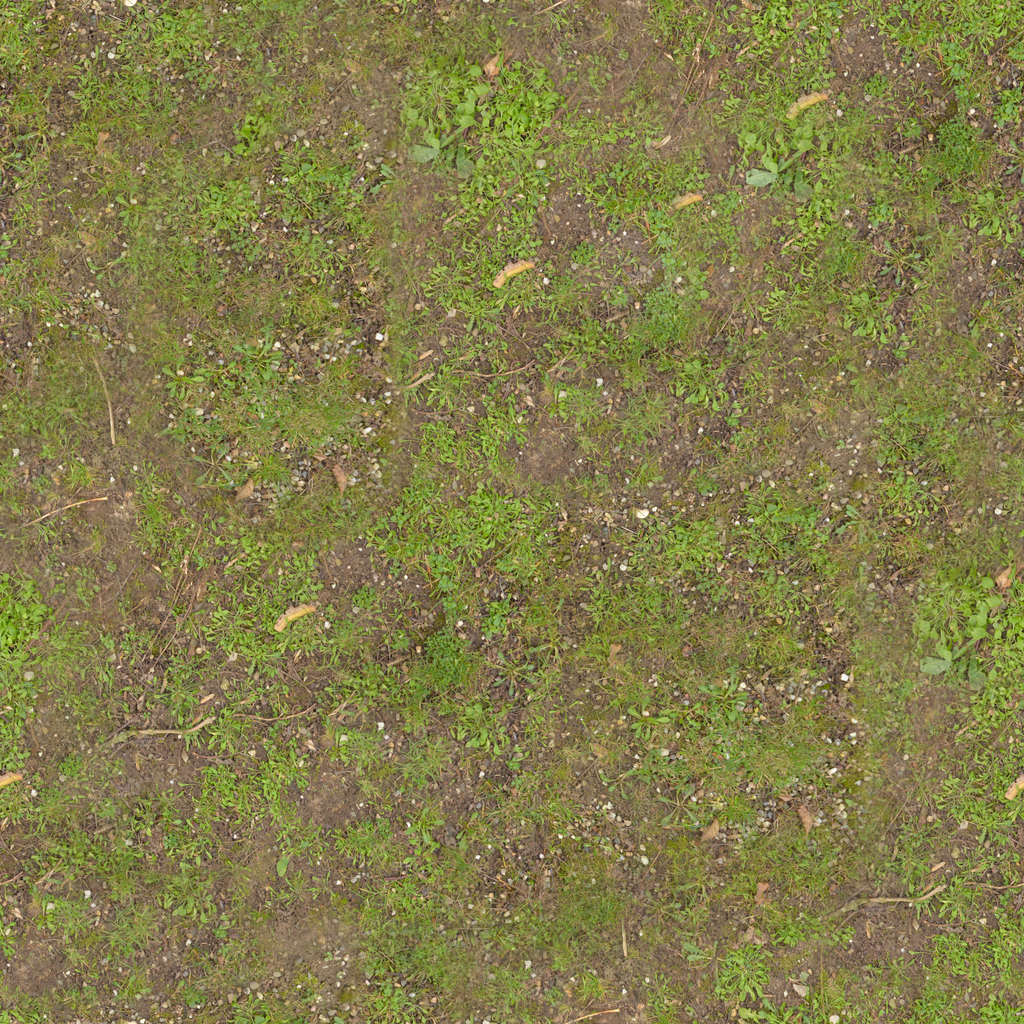
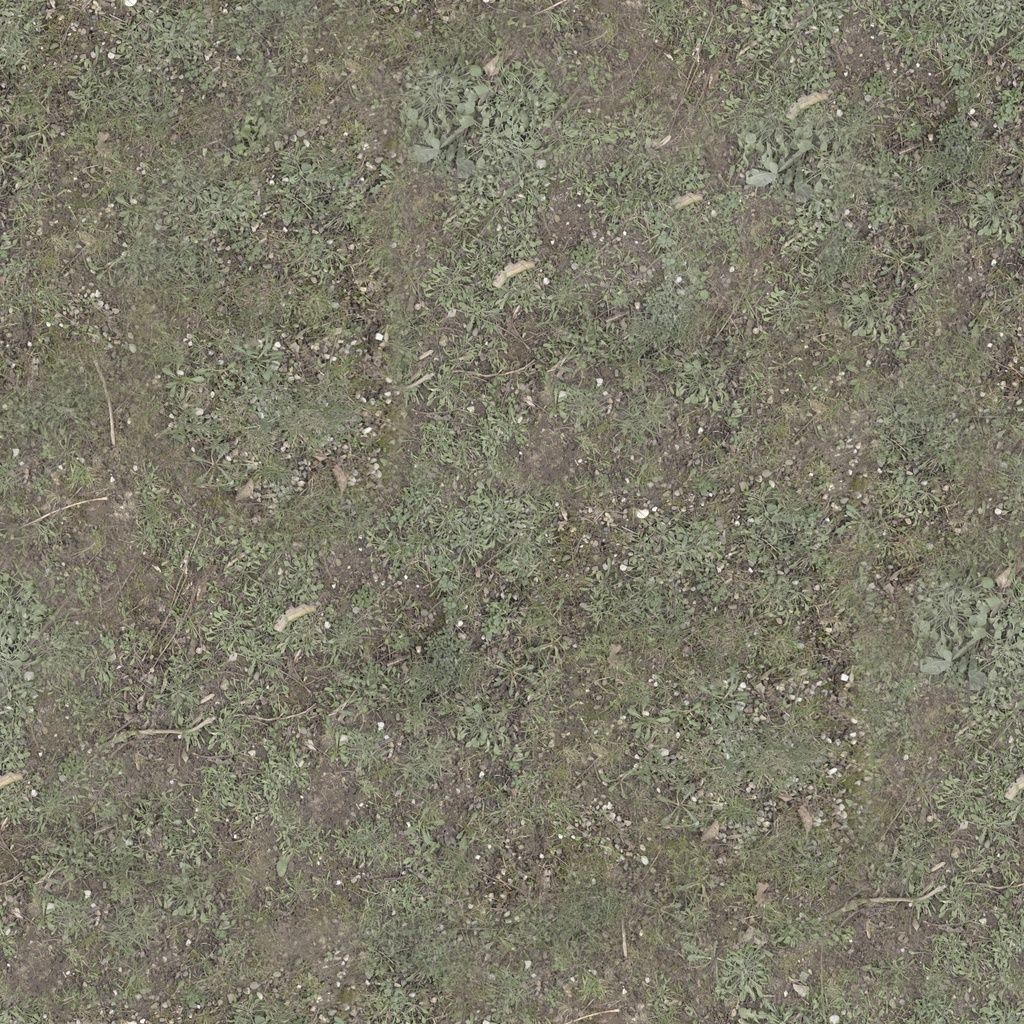
EV4-hillside-seam-remainder-2: fix soil band's compounding oversaturation
Ground003_Color.jpg's own raw saturation (0.45) measured ~4.5x every
sibling ground texture (Ground030 0.099, Rock030 0.126) -- oversaturated
across nearly its whole area, not a narrow patch, which is why two prior
tint-only rounds either undershot or overshot into rust/orange. Fixed the
photo directly with a feathered blend toward local luminance (same
technique as Ground030's own moss fix), then found a second bug the
re-render exposed: colour.soil was itself saturated and compounding
multiplicatively with the texture's own tint on top of the now-fixed
photo, the same bug R9.4 already fixed for grass elsewhere in this file.
Fixed both; reverified against the actual rendered frame, not just the
offline texture.

Real, verified progress -- did not close the item. A third blind critic
still found no legible third material: soil and rock now differ mainly in
value, not hue, so rock's own low native brightness reads as a shadow
hole. Narrower remainder opened in BACKLOG.md for that half.

diff --git a/tools/art_pipeline/desaturate_soil_texture.py b/tools/art_pipeline/desaturate_soil_texture.py
@@ -1,0 +1,109 @@
+"""
+Desaturate Ground003_Color.jpg (the hillside "soil" band texture) toward its
+own local luminance, in place.
+
+Written for EV4-hillside-seam-remainder-2: two prior rounds tried to reach a
+visible tan soil band purely through configured tint/relief and both failed
+or regressed (see terrain_playground.json's own
+_comment_ev4_hillside_seam_remainder). Direct measurement showed why:
+Ground003_Color.jpg's own raw saturation (mean 0.45) is roughly 4.5x every
+other ground texture already shipped in this project (Ground030, the path
+texture, measures 0.099; Rock030 measures 0.126) -- the photo itself is
+oversaturated across nearly its whole area, not merely in isolated green
+blobs the way Ground030's moss was. No tint multiply, however strong, can
+turn a photo this saturated into a believable soil tan without either
+under-shooting (round 1) or blowing into rust/orange (round 2) -- amplifying
+chroma that is already too high just moves where it lands, not how much
+there is.
+
+Same technique EV4-textures used for Ground030's moss blobs (a feathered
+blend toward local luminance, done to the pixels rather than fought through
+a multiplier), scaled to this photo's actual defect: a broad, whole-image
+saturation trim rather than a narrow hue-masked patch. Pixels in the
+green/grass-tuft hue range get pulled hardest toward neutral (they read as
+grass, not soil, regardless of tint); every other pixel gets a milder trim
+so the photo's baseline lands near its siblings' ~0.10-0.15 mean, letting
+the existing warm tint (#c9a874) multiply it toward tan cleanly instead of
+fighting leftover chroma.
+
+Usage:
+    python3 tools/art_pipeline/desaturate_soil_texture.py
+"""
+import numpy as np
+from PIL import Image, ImageFilter
+
+SRC = "assets/environment/terrain/Ground003_Color.jpg"
+
+GREEN_HUE_LO, GREEN_HUE_HI = 60.0, 160.0
+GREEN_SAT_THRESH = 0.12
+GREEN_PULL = 0.85   # how far green-hued pixels move toward their own local luminance
+BASE_PULL = 0.55    # how far every other pixel moves toward its own local luminance
+FEATHER_PX = 12      # gaussian blur radius on the green mask, in source pixels
+
+
+def rgb_to_hsv(arr):
+    r, g, b = arr[..., 0], arr[..., 1], arr[..., 2]
+    maxc = np.max(arr, axis=-1)
+    minc = np.min(arr, axis=-1)
+    v = maxc
+    delta = maxc - minc
+    s = np.where(maxc == 0, 0.0, delta / np.maximum(maxc, 1e-6))
+    h = np.zeros_like(maxc)
+    mask = delta > 1e-6
+    rc = np.zeros_like(maxc)
+    gc = np.zeros_like(maxc)
+    bc = np.zeros_like(maxc)
+    rc[mask] = (maxc[mask] - r[mask]) / delta[mask]
+    gc[mask] = (maxc[mask] - g[mask]) / delta[mask]
+    bc[mask] = (maxc[mask] - b[mask]) / delta[mask]
+    is_r = (maxc == r) & mask
+    is_g = (maxc == g) & mask
+    is_b = (maxc == b) & mask
+    h[is_r] = bc[is_r] - gc[is_r]
+    h[is_g] = 2.0 + (rc[is_g] - bc[is_g])
+    h[is_b] = 4.0 + (gc[is_b] - rc[is_b])
+    h = (h / 6.0) % 1.0
+    return h * 360.0, s, v
+
+
+def main():
+    img = Image.open(SRC).convert("RGB")
+    arr = np.asarray(img).astype(np.float32) / 255.0
+
+    h_deg, s, v = rgb_to_hsv(arr)
+    before_mean_sat = float(s.mean())
+
+    # The pixel's own value, so texture/shading survives the desaturation
+    # instead of getting flattened to a flat grey.
+    luminance = 0.299 * arr[..., 0] + 0.587 * arr[..., 1] + 0.114 * arr[..., 2]
+    neutral = np.stack([luminance] * 3, axis=-1)
+
+    green_mask = ((h_deg > GREEN_HUE_LO) & (h_deg < GREEN_HUE_HI) & (s > GREEN_SAT_THRESH)).astype(np.float32)
+    green_mask_img = Image.fromarray((green_mask * 255).astype(np.uint8))
+    green_mask_soft = np.asarray(
+        green_mask_img.filter(ImageFilter.GaussianBlur(FEATHER_PX))
+    ).astype(np.float32) / 255.0
+
+    pull = BASE_PULL + (GREEN_PULL - BASE_PULL) * green_mask_soft
+    pull = pull[..., None]
+
+    corrected = arr * (1.0 - pull) + neutral * pull
+    corrected = np.clip(corrected, 0.0, 1.0)
+
+    h2, s2, v2 = rgb_to_hsv(corrected)
+    green_bool = green_mask > 0.5
+    print(f"mean saturation: {before_mean_sat:.3f} -> {float(s2.mean()):.3f}")
+    if green_bool.any():
+        print(
+            f"green-region mean saturation: {float(s[green_bool].mean()):.3f} -> "
+            f"{float(s2[green_bool].mean()):.3f}"
+        )
+    print(f"green pixel fraction: {float(green_mask.mean()):.3f}")
+
+    out = Image.fromarray((corrected * 255).astype(np.uint8))
+    out.save(SRC, quality=95)
+    print(f"saved {SRC}")
+
+
+if __name__ == "__main__":
+    main()

diff --git a/docs/ASSET_LEDGER.md b/docs/ASSET_LEDGER.md
@@ -62,7 +62,7 @@ at the time it was fetched, not as remembered.
 | Survival pack — 5 of 25 models | Quaternius | [Survival Pack](https://quaternius.com/packs/survival.html) | CC0 1.0 | No | `assets/props/quaternius_survival/*.obj` | OBJ+MTL. Bonfire + its fire mesh (the campfire), backpack, axe, knife. Curated: the pack's modern items (batteries, flare gun, first-aid) left out of a medieval-rural biome. |
 | Grass005 — colour, normal, roughness | ambientCG | [ambientCG Grass005](https://ambientcg.com/view?id=Grass005) | CC0 1.0 | No | `assets/environment/terrain/Grass005_*.jpg` | 2K JPG downsampled to 1024² to match the rest of the array — Terrain3D builds one Texture2DArray and rejects the whole set on a size mismatch. Base ground layer. |
 | Grass004 — colour, normal, roughness | ambientCG | [ambientCG Grass004](https://ambientcg.com/view?id=Grass004) | CC0 1.0 | No | `assets/environment/terrain/Grass004_*.jpg` | 2K JPG. Was the base ground layer; kept, unused, as the dry-grass variant for a future second biome pass. |
-| Ground003 — colour, normal, roughness | ambientCG | [ambientCG Ground003](https://ambientcg.com/view?id=Ground003) | CC0 1.0 | No | `assets/environment/terrain/Ground003_*.jpg` | 2K JPG. Soil/dirt layer. |
+| Ground003 — colour, normal, roughness | ambientCG | [ambientCG Ground003](https://ambientcg.com/view?id=Ground003) | CC0 1.0 | No | `assets/environment/terrain/Ground003_*.jpg` | 2K JPG. Soil/dirt layer (the hillside slope band). **`Color.jpg` locally edited by `EV4-hillside-seam-remainder-2`** (CC0 permits derivatives): the photo's own raw saturation (mean 0.45) measured ~4.5x every sibling ground texture (Ground030 0.099, Rock030 0.126) — a weedy-lawn photo with green grass tufts and generally oversaturated colour baked in across nearly its whole area, not a narrow patch. `tools/art_pipeline/desaturate_soil_texture.py` blends it toward its own local luminance (feathered, stronger pull in the green/grass-tuft hue range, milder everywhere else — same technique as Ground030's own moss fix, scaled to this photo's broader defect), taking mean saturation to 0.17. `Normal.jpg`/`Roughness.jpg` untouched. |
 | Rock030 — colour, normal, roughness | ambientCG | [ambientCG Rock030](https://ambientcg.com/view?id=Rock030) | CC0 1.0 | No | `assets/environment/terrain/Rock030_*.jpg` | 2K JPG. Slope layer, blended by the auto shader. |
 | Ground030 — colour, normal | ambientCG | [ambientCG Ground030](https://ambientcg.com/view?id=Ground030) | CC0 1.0 | No | `assets/environment/terrain/Ground030_*.jpg` | 1K JPG (downloaded at the 1K tier directly, matching the rest of the array at 1024²). Dirt/pebble pathway texture, already breaking into grass at its own edges. Sourced for `EV4`'s "paths as a control-map material, not a colour-map tint" fix; wired into `terrain_playground.json` as the `path` texture entry (EV4 round 5) — see `DONE.md`. **`Color.jpg` locally edited by `EV4-textures`** (CC0 permits derivatives): the photo's own moss patches measured too saturated to a blind critic; the largest connected moss regions (hue 70-170°, sat>0.20, feathered mask) are blended 85% toward their own luminance in place, taking moss saturation from ~0.36 to ~0.16 — same photo, same pebble/moss detail, just less garish. **Edited again by `EV4-textures-remainder`** (`tools/art_pipeline/reshape_moss_blobs.py`): the ~52 largest moss blobs (still round/similarly-sized after the desaturation fix) are stretched along a random per-blob axis, narrowed perpendicular, edge-roughened and about 60% given an asymmetric taper, so they read as varied streaks/wisps rather than stamped circles — a blind critic confirmed the hard-edge "decal" read is gone but still called shape variety limited ("one repeated template... resized"); accepted as a genuine partial improvement, not a full pass, per its own item text ("low priority, a finish question"). `Normal.jpg` untouched by either edit. |
 | Ground037 — colour, normal | ambientCG | [ambientCG Ground037](https://ambientcg.com/view?id=Ground037) | CC0 1.0 | No | `assets/environment/terrain/Ground037_*.jpg` | 1K JPG, same tier as above. Damp, mossy forest-floor grass — bible sec8's "Deep Grass / Forest Floor" layer. Sourced alongside `Ground030`; still unused, see the `EV4-hillside-seam` entry in `BACKLOG.md` for whoever wires it in with `EV3`. |
